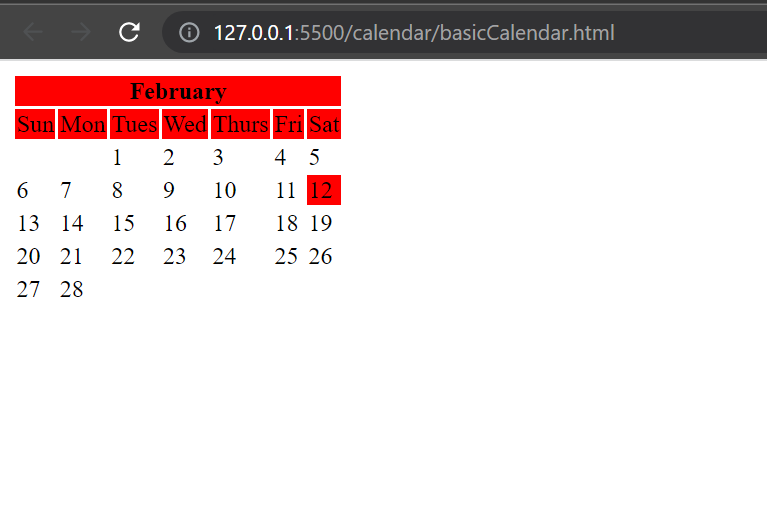
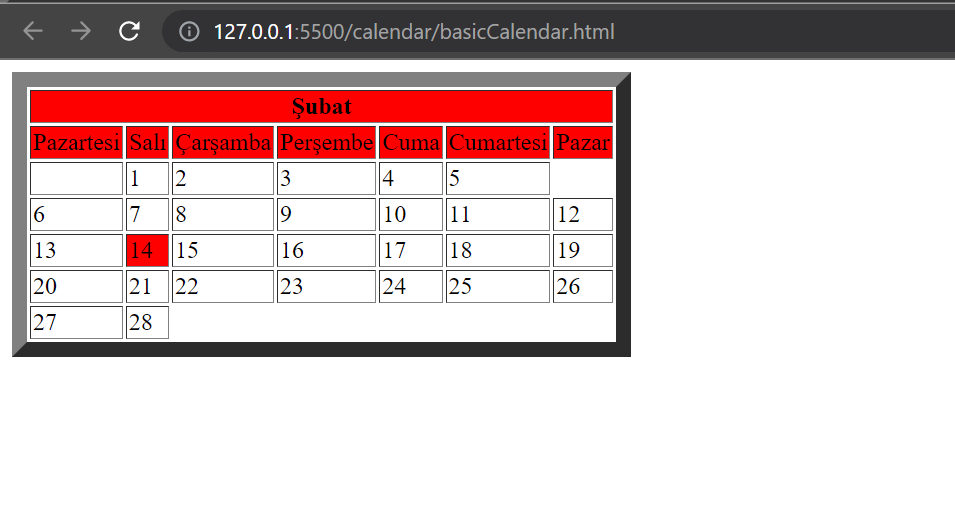
basicCalendar

Changed region(s): [[0.0, 0.0, 1.0, 0.6769]]

diff --git a/basicCalendar.html b/basicCalendar.html
@@ -25,10 +25,10 @@
             }
 
 
-            var monthNames = ["January", "February", "March", "April", "May", "June", "July", "August", "September",
-                "October", "November", "December"
+            var monthNames = ["Ocak", "Şubat", "Mart", "Nisan", "Mayıs", "Haziran", "Temmuz", "Ağustos", "Eylül",
+                "Ekim", "Kasım", "Aralık"
             ];
-            var dayNames = ["Sunday", "Monday", "Tuesday", "Wednesday", "Thrusday", "Friday", "Saturday"];
+            var dayNames = ["Monday", "Tuesday", "Wednesday", "Thrusday", "Friday", "Saturday", "Sunday"];
             var dayPerMonth = ["31", "" + FebNumberOfDays + "", "31", "30", "31", "30", "31", "31", "30", "31", "30", "31"]
 
 
@@ -38,11 +38,10 @@
             var numOfDays = dayPerMonth[month];
 
 
-            while (weekdays > 0) {
-                htmlContent += "<td></td>";
-
-                weekdays--;
-            }
+            while ((weekdays + 6) % 7 > 0) {
+              htmlContent += "<td></td>";
+              weekdays--;
+          }
 
             while (counter <= numOfDays) {
 
@@ -65,8 +64,8 @@
             }
 
 
-            var calendarBody = "<table> <tr><th bgcolor= red colspan='7'>" +  monthNames[month] + "</th></tr>";
-            calendarBody += "<tr bgcolor= #FF0000>  <td>Sun</td>  <td>Mon</td> <td>Tues</td> <td>Wed</td> <td>Thurs</td> <td>Fri</td> <td>Sat</td> </tr>";
+            var calendarBody = "<table border= 10px solid black> <tr><th  bgcolor= red colspan='7'>" +  monthNames[month] + "</th></tr>";
+            calendarBody += "<tr bgcolor= #FF0000>  <td>Pazartesi</td> <td>Salı</td> <td>Çarşamba</td> <td>Perşembe</td> <td>Cuma</td> <td>Cumartesi</td> <td>Pazar</td> </tr>";
             calendarBody += htmlContent;
             document.getElementById("calendar").innerHTML = calendarBody;
 
